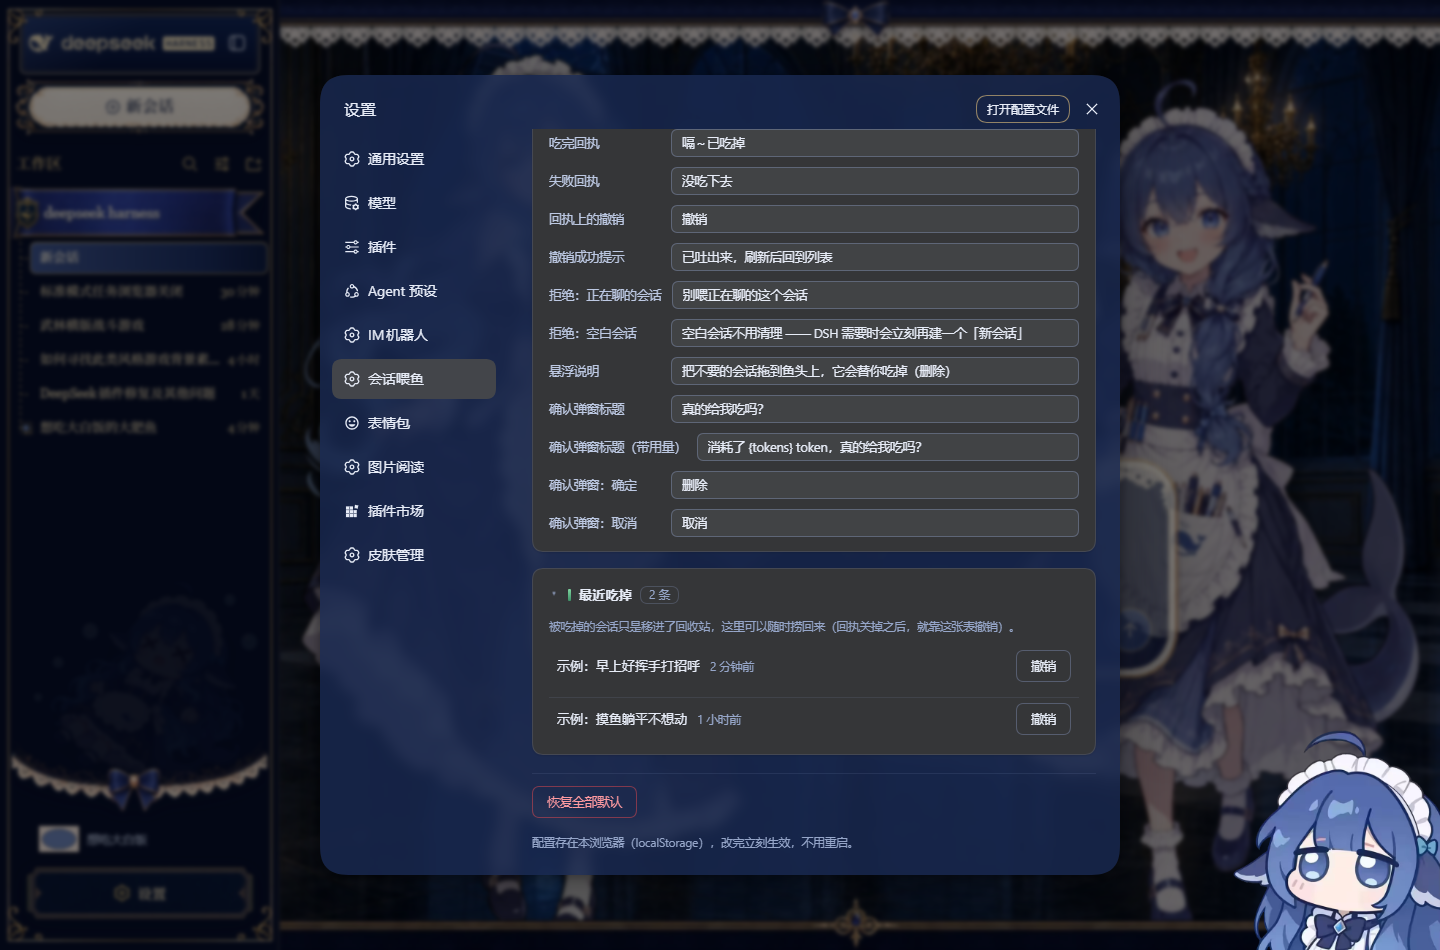
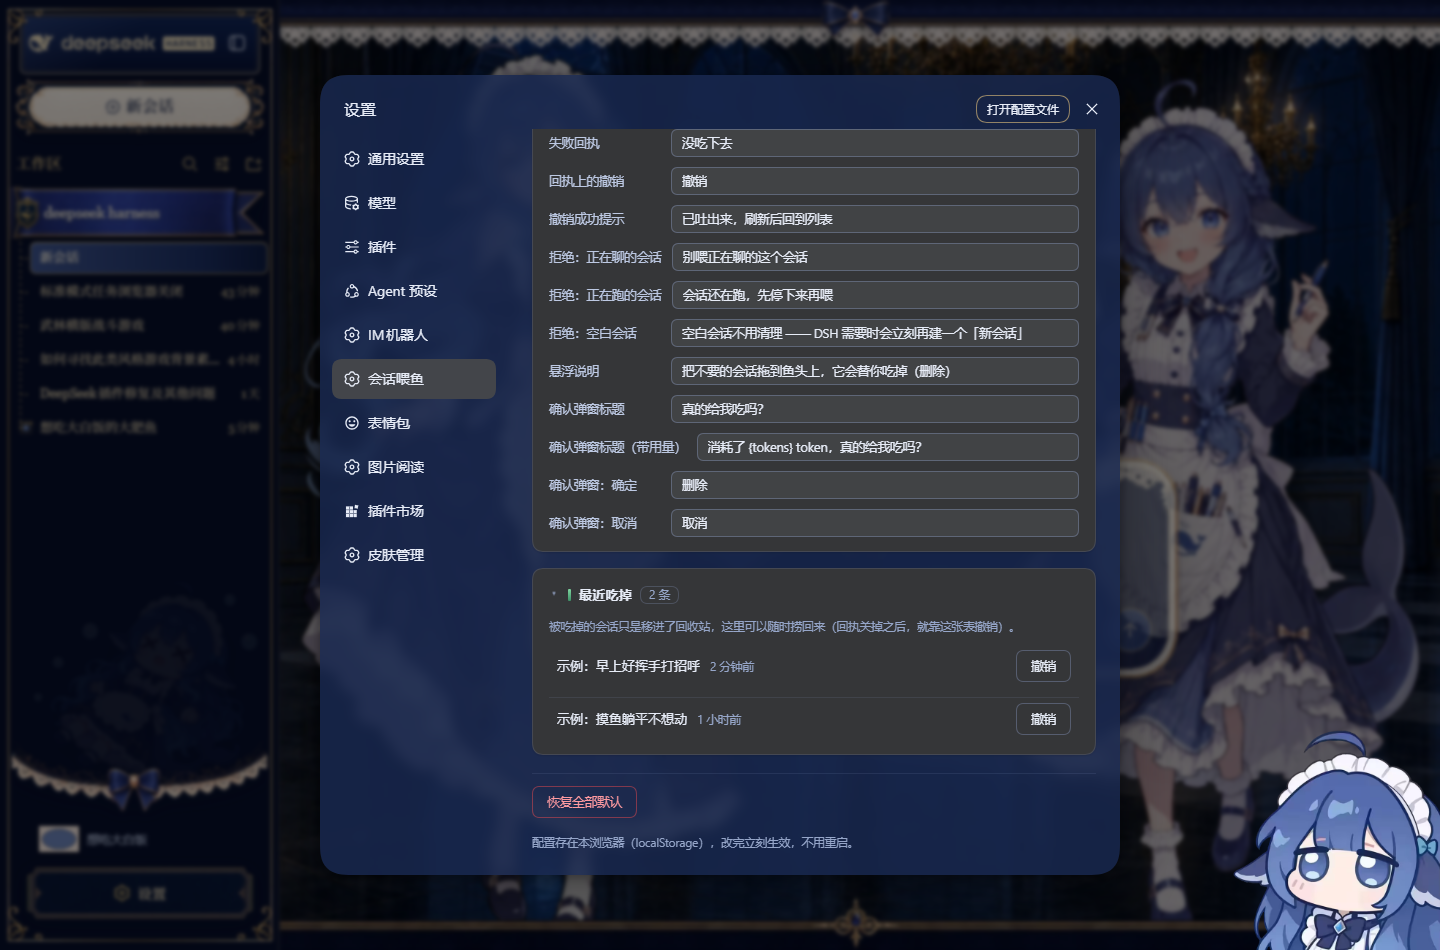
fix(refuse): 宿主 409「会话还在跑」也走就地拒绝（与空白/正在聊的一致）
以前 409 落进普通失败分支，弹「没吃下去：该会话正在运行…」，看着像插件出错；其实它和另外两条一样只是「此刻不能吃」。现在客户端保留宿主给的 code（session-running）并路由到同一个 refuse()：红色投放区 + 「会话还在跑，先停下来再喂」+ 鱼闭嘴摇头，1.8 秒后归位。可改文案 17 段。

diff --git a/lib/client.js b/lib/client.js
@@ -55,6 +55,7 @@ window.__ModuleLoader__.load({
 			restored: "已吐出来，刷新后回到列表",
 			failed: "没吃下去",
 			self: "别喂正在聊的这个会话",
+			running: "会话还在跑，先停下来再喂",
 			blank: "空白会话不用清理 —— DSH 需要时会立刻再建一个「新会话」",
 			confirmAsk: "真的给我吃吗？",
 			confirmAskTokens: "消耗了 {tokens} token，真的给我吃吗？",
@@ -74,6 +75,7 @@ window.__ModuleLoader__.load({
 			["restore", "回执上的撤销", "回执里那个撤销按钮的字；留空则回执上不显示撤销"],
 			["restored", "撤销成功提示", "点完撤销之后的回执"],
 			["self", "拒绝：正在聊的会话", "拖的正是当前打开的会话时的提示"],
+			["running", "拒绝：正在跑的会话", "宿主还握着它的写句柄时的提示（留空则用宿主返回的原因）"],
 			["blank", "拒绝：空白会话", "拖的是没有内容的「新会话」时的提示"],
 			["hint", "悬浮说明", "鼠标停在药丸上时的小提示（title）"],
 			["confirmAsk", "确认弹窗标题", "读不到 token 用量时用这条（下面会列出会话名）"],
@@ -1182,6 +1184,29 @@ window.__ModuleLoader__.load({
 				return () => window.removeEventListener("keydown", onKey);
 			}, [phase]);
 
+			/**
+			 * 就地拒绝一个"不能吃"的会话：投放区变红 + 写明原因 + 鱼闭嘴，1.8 秒后归位；
+			 * 底部再补一条 toast（双通道 —— 眼睛盯着鱼身上也不会漏掉）。
+			 *
+			 * 「空白会话 / 正在聊的 / 正在跑的」三条理由**共用这一套**，反馈风格才一致
+			 * （以前"正在跑的"走的是普通失败回执，看起来像出了错，其实也是"不能吃"）。
+			 *
+			 * @param {string} code - 原因码（blank / self / running）。
+			 * @param {string} message - 给用户看的那句话。
+			 * @param {string} [sessionId] - 会话 id。
+			 * @param {string} [title] - 会话标题。
+			 * @returns {void}
+			 */
+			const refuse = (code, message, sessionId = "", title = "") => {
+				setState({ phase: "refused", blocked: { code, message }, sessionId, title });
+				showToast({ kind: "error", message });
+				// `state` 是模块级的活对象（setState 整体替换它），所以这里读到的是"此刻"的
+				// phase —— 不会踩到闭包快照，归位一定触发。
+				setTimeout(() => {
+					if (state.phase === "refused") setState({ phase: "idle", blocked: null })
+				}, 1800);
+			};
+
 			// ── 吃掉一只会话 ────────────────────────────────────────────
 			const eat = useCallback(async (sessionId, title) => {
 				setState({ phase: "eating", sessionId, title: title || sessionId });
@@ -1194,7 +1219,12 @@ window.__ModuleLoader__.load({
 					});
 					const payload = await res.json().catch(() => null);
 					if (!res.ok || payload === null || payload.ok !== true) {
-						throw new Error((payload && payload.error) || `HTTP ${res.status}`);
+						const error = new Error((payload && payload.error) || `HTTP ${res.status}`);
+						// 保留宿主给的 code（例如 session-running）：下面要靠它区分
+						// "不能吃"（就地拒绝）和"真失败"（失败回执）。
+						error.code = (payload && payload.code) || undefined;
+						error.status = res.status;
+						throw error;
 					}
 					setState({ phase: "eaten", sessionId, title: title || sessionId });
 					dropLocalSummary(ctx, sessionId);
@@ -1209,6 +1239,12 @@ window.__ModuleLoader__.load({
 					setTimeout(() => { if (state.phase === "eaten") setState({ phase: "idle" }) }, 1200);
 				} catch (error) {
 					const message = String((error && error.message) || error);
+					// 宿主那条 409「会话还在跑」也属于"不能吃"，跟前两条走同一套就地拒绝 UI
+					// （以前它走的是普通失败回执，三条理由的反馈风格不一致）。
+					if ((error && error.code) === "session-running") {
+						refuse("running", textOf("running") || message, sessionId, title || sessionId);
+						return;
+					}
 					setState({ phase: "error", detail: message });
 					showToast({ kind: "error", message: compose(textOf("failed"), message) });
 					setTimeout(() => { if (state.phase === "error") setState({ phase: "idle" }) }, 2400);
@@ -1294,11 +1330,7 @@ window.__ModuleLoader__.load({
 				// 鱼摇头一下，同时再补一条底部 toast。以前只有 toast，用户会以为"点了没反应"。
 				const refusal = refusalOf(sessionId, row);
 				if (refusal.code !== "") {
-					setState({ phase: "refused", blocked: refusal, sessionId, title: title || sessionId });
-					showToast({ kind: "error", message: refusal.message });
-					setTimeout(() => {
-						if (state.phase === "refused") setState({ phase: "idle", blocked: null })
-					}, 1800);
+					refuse(refusal.code, refusal.message, sessionId, title || sessionId);
 					return;
 				}
 				// 3) 确认这一步（默认开，设置里可关）：先停在投放区里问一句，

diff --git a/README.md b/README.md
@@ -38,6 +38,8 @@
    > token 数来自**内核自己的会话投影缓存**（`storages/session_projcache/sessions/<id>.json`
    > 里的 `tokenUsage.totals`），跟界面同源，不用解那个 5MB 的多帧 zstd。
    > 读不到时（比如空白会话）会退回不带数字的「真的给我吃吗？」。
+   > 这一路**只读内核的盘上文件**，不读任何其他插件的状态、也不调用它们的接口 ——
+   > 所以别人装了哪些插件都不影响这里的数字（读不到就退回不带数字的询问语）。
 
    > 嫌每次都要确认，可以在 **设置 → 删除前确认** 里把开关关掉 —— 那就回到"松手即删"。
    > 四段文案（两条询问语、确定、取消）都能改；带用量那条里的 `{tokens}` 会被换成实际数字，
@@ -85,9 +87,11 @@
   所以把空白的「新会话」喂掉之后，刷新/新建时它会以**新的 session id** 再冒出来 ——
   看起来就像"删了没生效"。插件现在直接拒绝并说明原因。
 - **正在聊的这个会话**：客户端拦下，写明「别喂正在聊的这个会话」。
-- **正在跑的会话**：宿主还握着它的写句柄，拒绝喂鱼（返回 409，回执里说明原因）。
+- **正在跑的会话**：宿主还握着它的写句柄，返回 409；客户端认出这个原因码后**也走上面同一套就地拒绝**
+  （红色投放区 + 「会话还在跑，先停下来再喂」+ 鱼闭嘴摇头，1.8 秒后自动归位），
+  不再落进「没吃下去」那种"像是插件坏了"的失败回执。
 
-> 这三条文案都能在 设置 → 文案 里改（`拒绝：空白会话` / `拒绝：正在聊的会话`），
+> 这三条文案都能在 设置 → 文案 里改（`拒绝：空白会话` / `拒绝：正在聊的会话` / `拒绝：会话还在跑`），
 > 关掉确认弹窗也不影响它们的醒目程度。
 
 > 换句话说：**真正有内容的对话删除后不会回来**（删除是"移进回收站"，不是 `rm`）。
@@ -119,15 +123,14 @@
   而是在会话列表里弹出确认框；关掉＝回到"松手即删"。
 - **动画**：咀嚼周期（0.2–1.6s）、两颊粉红开关、点头咬合开关。
 - **文案** / **最近吃掉**：这两个区块很长，**默认为折叠状态**，点标题展开（标题右侧会给
-  `15 段` / `2 条` 这样的摘要，不展开也知道里面有多少东西）。收起时正文**根本不渲染**，
+  `17 段` / `2 条` 这样的摘要，不展开也知道里面有多少东西）。收起时正文**根本不渲染**，
   所以设置页一眼能看全。展开状态记在配置里，刷新后保持。
 - **文案**：界面上出现的每一句话都能改，**留空 = 那段文字不显示**（药丸只剩图标、投放区只剩鱼、
   回执只剩会话标题和按钮）。
 
 ![文案设置](docs/settings-text.png)
 
-16 段可改文案与出厂值：
-
+17 段可改文案与出厂值：
 | 设置里的名字 | 出现位置 | 出厂值 |
 | --- | --- | --- |
 | 空闲时 | 药丸上的字（平时显示的那个） | `想吃大白饭` |
@@ -144,6 +147,7 @@
 | 确认弹窗：确定 | 真删那个按钮（留空回落到「删除」） | `删除` |
 | 确认弹窗：取消 | 算了那个按钮（留空回落到「取消」） | `取消` |
 | 拒绝：正在聊的会话 | 拖的正是当前打开的会话时 | `别喂正在聊的这个会话` |
+| 拒绝：会话还在跑 | 宿主回 409（会话正在运行）时 | `会话还在跑，先停下来再喂` |
 | 拒绝：空白会话 | 拖的是没有内容的「新会话」时 | `空白会话不用清理 —— …` |
 | 悬浮说明 | 鼠标停在药丸上的小提示（title） | `把不要的会话拖到鱼头上…` |
 

diff --git a/CHANGELOG.md b/CHANGELOG.md
@@ -10,6 +10,11 @@
   - **松手**时整块晃两下、停在红色状态约 1.8 秒，底部再补一条 toast（双通道）；
   - 判定逻辑收拢成 `refusalOf()` 一处，`dragover` 与 `drop` 共用，不再有重复的拦截分支。
   - 空白会话走同一套拒绝 UI（同样是红色 + 写明「空白会话不用清理…」+ 闭嘴）。
+  - **宿主回 409「会话还在跑」也走同一套就地拒绝**。以前它落进普通失败分支，弹的是
+    「没吃下去：该会话正在运行…」，看着像插件出错；其实这条和前两条一样只是"此刻不能吃"。
+    现在客户端保留宿主给的 `code`（`session-running`）并路由到同一个 `refuse()`：
+    红色投放区 + 「会话还在跑，先停下来再喂」+ 鱼闭嘴摇头，1.8 秒后自动归位。
+    可改文案 17 段（新增「会话还在跑」这条）。
 
 - **新增**：**删除前确认会写出这个会话消耗了多少 token**，而且**只问一句**：
   「消耗了 `1.2M` token，真的给我吃吗？」—— 不列会话名、不写轮数与缓存命中率
